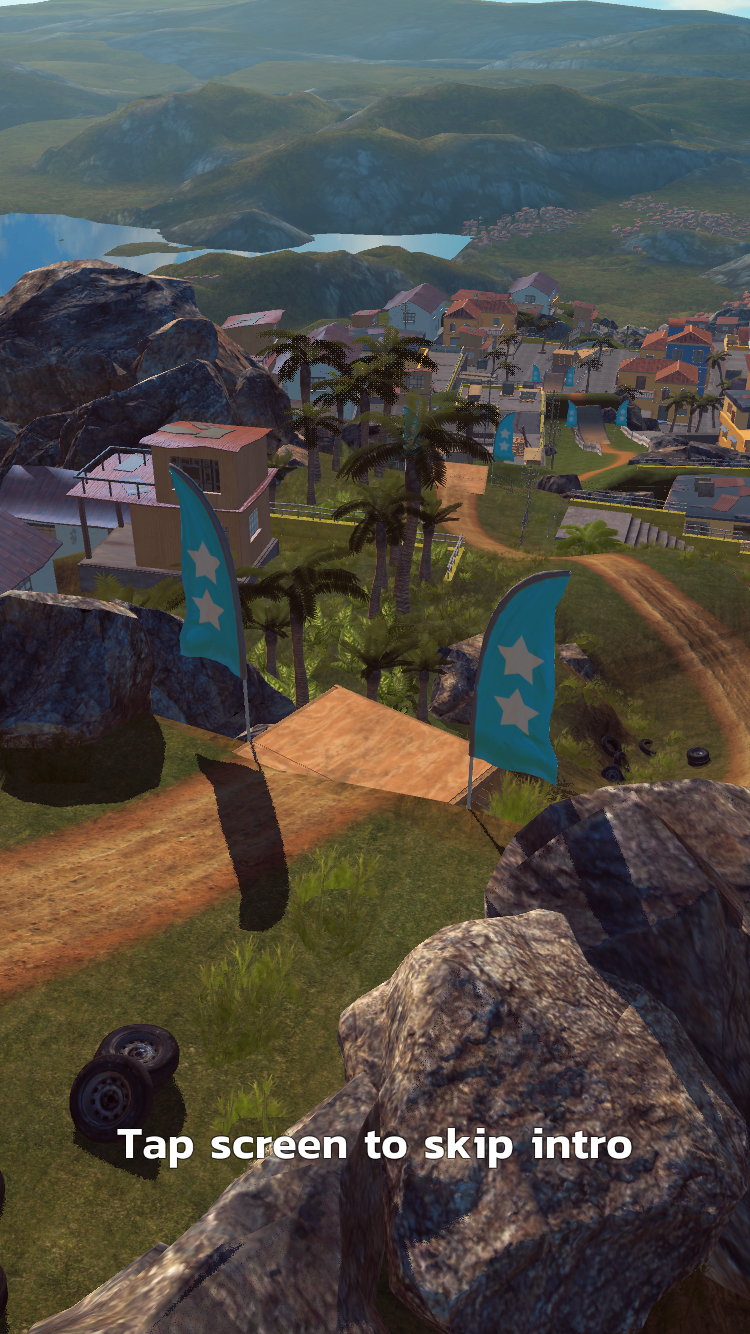
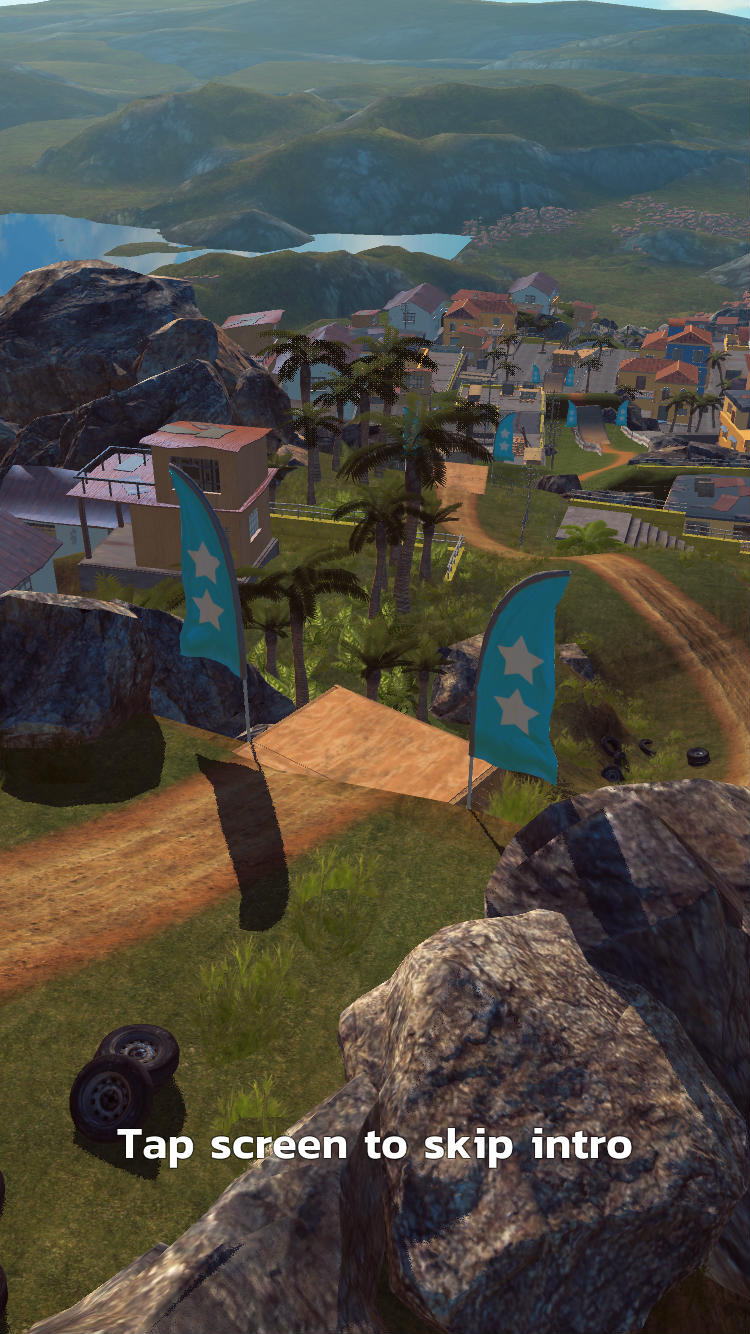
Update the images to make the page faster.

Changed region(s): [[0.9507, 0.3073, 0.9813, 0.3381], [0.4293, 0.2766, 0.46, 0.3073]]

diff --git a/index.html b/index.html
@@ -6,7 +6,7 @@
   <meta name="viewport" content="width=device-width, initial-scale=1">
   <title>Bike Unchained 2</title>
   <!-- add favicon -->
-  <link rel="shortcut icon" type="image/png" href="./resources/images/favicon-32x32.png" />
+  <link rel="shortcut icon" type="image/png" href="./resources/images/favicon-32x32.jpg" />
   <!-- reset CSS  -->
   <link rel="stylesheet" href="./resources/css/reset.css">
   <!-- Bootstrap CSS -->
@@ -171,7 +171,7 @@
               <div class="image">
                 <div class="row">
                   <div class="col-lg-6">
-                    <img style="width:95%;" src="./resources/images/image5.png">
+                    <img style="width:95%;" src="./resources/images/image5.jpg">
                   </div>
                 </div>
               </div>
@@ -246,7 +246,7 @@
               <div class="image">
                 <div class="row">
                   <div class="col-lg-8">
-                    <img style="width:100%;" src="./resources/images/image10.png">
+                    <img style="width:100%;" src="./resources/images/image10.jpg">
                   </div>
                 </div>
               </div>
@@ -300,7 +300,7 @@
                       <p>Special event is available from the game's "PLAY" menu. The "Special event" objectives (e.g. slopestyle, etc.) are determined by the production team. The time frame for the event can vary as well.</p>
                       <p>Some of the "Special events" have real world rewards for the top players in the leaderboard (e.g. biking shorts, Red Bull T-shirts, etc.).</p>
                       <p>To learn more about Special events with real world prizes, please check out
-                        <a href="#events-prizes">How can I take part in events with real world prizes? </a> article.
+                        <a href="#events-prizes">How can I take part in events with real world prizes?</a> article.
                       </p>
                     </div>
                   </div>
@@ -309,7 +309,7 @@
                   <div class="image">
                     <div class="row">
                       <div class="col-lg-12">
-                        <img style="width:100%;" src="./resources/images/image1.png">
+                        <img style="width:100%;" src="./resources/images/image1.jpg">
                       </div>
                     </div>
                   </div>
@@ -320,7 +320,7 @@
                   <div class="image">
                     <div class="row">
                       <div class="col-lg-12">
-                        <img style="width:100%;" src="./resources/images/image1.png">
+                        <img style="width:100%;" src="./resources/images/image1.jpg">
                       </div>
                     </div>
                   </div>
@@ -395,7 +395,7 @@
               <div class="image">
                 <div class="row">
                   <div class="col-lg-6">
-                    <img style="width:100%;" src="./resources/images/image1.png">
+                    <img style="width:100%;" src="./resources/images/image1.jpg">
                   </div>
                 </div>
               </div>
@@ -415,10 +415,10 @@
               <p>To see how any given part affects your Bike's performance, simply tap on a part: </p>
               <div class="row">
                 <div class="col-lg-4">
-                  <img style="width:100%;" src="./resources/images/image4.png">
+                  <img style="width:100%;" src="./resources/images/image4.jpg">
                 </div>
                 <div class="col-lg-4">
-                  <img style="width:100%;" src="./resources/images/image6.png">
+                  <img style="width:100%;" src="./resources/images/image6.jpg">
                 </div>
               </div>
             </div>
@@ -441,10 +441,10 @@
                     <td>
                       <div class="row">
                         <div class="col-lg-4">
-                          <img class="card-img-top" src="./resources/images/image9.png">
+                          <img class="card-img-top" src="./resources/images/image9.jpg">
                         </div>
                         <div class="col-lg-4">
-                          <img class="card-img-top" src="./resources/images/image17.png">
+                          <img class="card-img-top" src="./resources/images/image17.jpg">
                         </div>
 
                       </div>
@@ -456,7 +456,7 @@
                     <td>
                       <div class="row">
                         <div class="col-lg-4">
-                          <img class="card-img-top" src="./resources/images/image13.png">
+                          <img class="card-img-top" src="./resources/images/image13.jpg">
                         </div>
                       </div>
                     </td>
@@ -482,7 +482,7 @@
               <div class="row">
                 <div class="col-lg-4">
                   <div class="card">
-                    <img class="card-img-top" src="./resources/images/image15.png" alt="Card image cap">
+                    <img class="card-img-top" src="./resources/images/image15.jpg" alt="Card image cap">
 
                     <div class="card-body">
                       <h5 class="card-title">Tapping [+] for Tickets, Gold or Obtainium</h5>
@@ -491,7 +491,7 @@
                 </div>
                 <div class="col-lg-4">
                   <div class="card">
-                    <img class="card-img-top" src="./resources/images/image13.png" alt="Card image cap">
+                    <img class="card-img-top" src="./resources/images/image13.jpg" alt="Card image cap">
 
                     <div class="card-body">
                       <h5 class="card-title">In the "Shop" section of the game menu</h5>
@@ -522,10 +522,10 @@
                   <td>
                     <div class="row">
                       <div class="col-lg-4">
-                        <img class="card-img-top" src="./resources/images/image23.png">
+                        <img class="card-img-top" src="./resources/images/image23.jpg">
                       </div>
                       <div class="col-lg-4">
-                        <img class="card-img-top" src="./resources/images/image12.png">
+                        <img class="card-img-top" src="./resources/images/image12.jpg">
                       </div>
                       <div class="col-lg-4">
                         <img class="card-img-top" src="./resources/images/image11.jpg">
@@ -556,13 +556,13 @@
                   <td>
                     <div class="row">
                       <div class="col-lg-4">
-                        <img class="card-img-top" src="./resources/images/image24.png">
+                        <img class="card-img-top" src="./resources/images/image24.jpg">
                       </div>
                       <div class="col-lg-4">
-                        <img class="card-img-top" src="./resources/images/image19.png">
+                        <img class="card-img-top" src="./resources/images/image19.jpg">
                       </div>
                       <div class="col-lg-4">
-                        <img class="card-img-top" src="./resources/images/image25.png">
+                        <img class="card-img-top" src="./resources/images/image25.jpg">
                       </div>
                     </div>
                   </td>
@@ -573,13 +573,13 @@
                   <td>
                     <div class="row">
                       <div class="col-lg-4">
-                        <img class="card-img-top" src="./resources/images/IMG_0313.PNG">
+                        <img class="card-img-top" src="./resources/images/IMG_0313.jpg">
                       </div>
                       <div class="col-lg-4">
-                        <img class="card-img-top" src="./resources/images/IMG_0314.PNG">
+                        <img class="card-img-top" src="./resources/images/IMG_0314.jpg">
                       </div>
                       <div class="col-lg-4">
-                        <img class="card-img-top" src="./resources/images/IMG_0315.PNG">
+                        <img class="card-img-top" src="./resources/images/IMG_0315.jpg">
                       </div>
                     </div>
                   </td>
@@ -590,13 +590,13 @@
                   <td>
                     <div class="row">
                       <div class="col-lg-4">
-                        <img class="card-img-top" src="./resources/images/IMG_0316.PNG">
+                        <img class="card-img-top" src="./resources/images/IMG_0316.jpg">
                       </div>
                       <div class="col-lg-4">
-                        <img class="card-img-top" src="./resources/images/IMG_0317.PNG">
+                        <img class="card-img-top" src="./resources/images/IMG_0317.jpg">
                       </div>
                       <div class="col-lg-4">
-                        <img class="card-img-top" src="./resources/images/IMG_0319.PNG">
+                        <img class="card-img-top" src="./resources/images/IMG_0319.jpg">
                       </div>
                     </div>
                   </td>
@@ -649,7 +649,7 @@
               <div class="image">
                 <div class="row">
                   <div class="col-lg-4">
-                    <img style="width:95%;" src="./resources/images/image16.png">
+                    <img style="width:95%;" src="./resources/images/image16.jpg">
                   </div>
                 </div>
               </div>
@@ -657,7 +657,7 @@
               <div class="image">
                 <div class="row">
                   <div class="col-lg-4">
-                    <img style="width:95%;" src="./resources/images/image8.png">
+                    <img style="width:95%;" src="./resources/images/image8.jpg">
                   </div>
                 </div>
               </div>
@@ -668,7 +668,7 @@
                     <img style="width:95%;" src="./resources/images/image3.jpg">
                   </div>
                   <div class="col-lg-4">
-                    <img style="width:95%;" src="./resources/images/image18.png">
+                    <img style="width:95%;" src="./resources/images/image18.jpg">
                   </div>
                 </div>
               </div>
